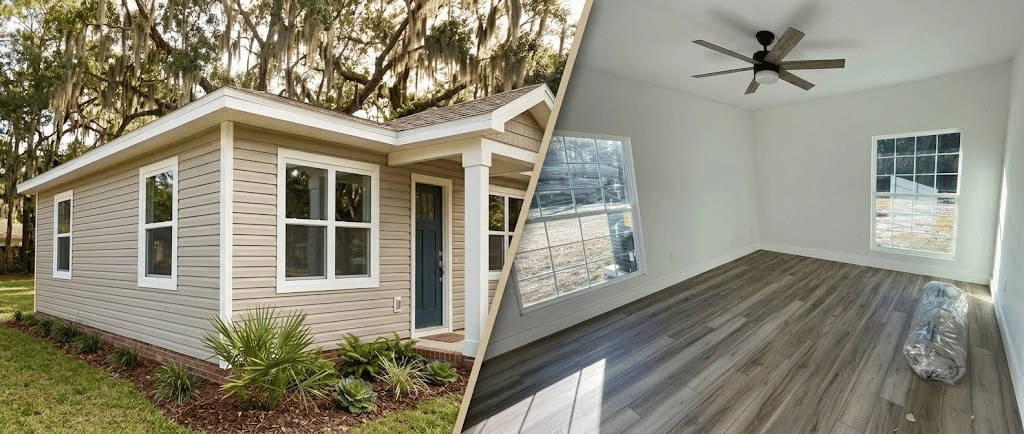
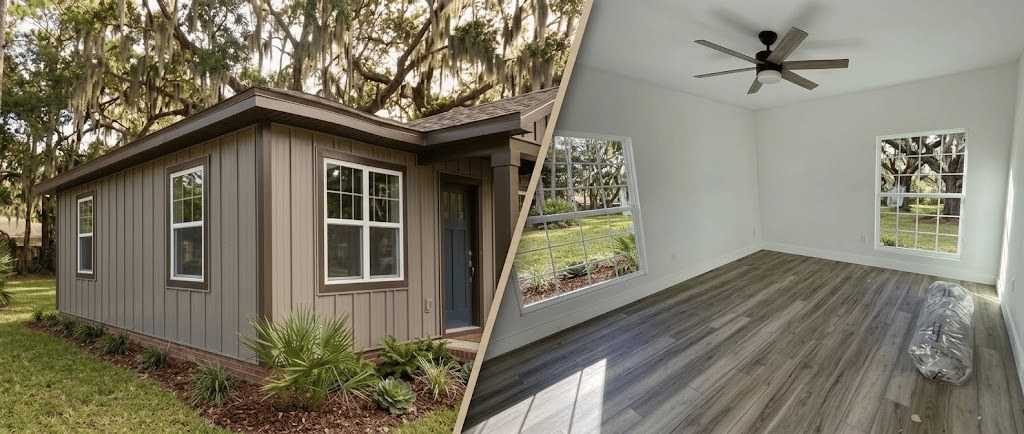
Update siding windows and flooring service imagery

diff --git a/app/services/flooring-siding-windows/page.jsx b/app/services/flooring-siding-windows/page.jsx
@@ -1,4 +1,4 @@
 import { PageFrame } from "../../components/page-frame";
 import { ServiceDetailPage } from "../../components/service-detail-page";
-export const metadata = { title: "Flooring, Siding, and Window Replacement in Lake Butler, FL", description: "Flooring, siding, and window replacement planning with finish carpentry for homeowners in Lake Butler and nearby North Florida communities.", alternates: { canonical: "/services/flooring-siding-windows" }, openGraph: { title: "Flooring, Siding, and Window Replacement in Lake Butler, FL", description: "Practical flooring, siding, and window updates for North Florida homes.", images: [{ url: "/images/north-florida-siding-windows.png", alt: "North Florida home with updated siding and windows" }] }, twitter: { card: "summary_large_image", images: ["/images/north-florida-siding-windows.png"] } };
-export default function FlooringSidingWindowsPage() { return <PageFrame><ServiceDetailPage slug="flooring-siding-windows" heroImage={{ src: "/images/north-florida-siding-windows.png", alt: "North Florida home with new horizontal siding, white-trimmed windows, and a covered entry" }} faqHeading="Flooring, siding, and window FAQs" faqIntro="The questions homeowners often ask before updating worn flooring, siding, or windows, with straightforward answers to help you take the next step." faqCtaLabel="Talk through your home update" centeredScope hideIntro hideBottomCta /></PageFrame>; }
+export const metadata = { title: "Flooring, Siding, and Window Replacement in Lake Butler, FL", description: "Flooring, siding, and window replacement planning with finish carpentry for homeowners in Lake Butler and nearby North Florida communities.", alternates: { canonical: "/services/flooring-siding-windows" }, openGraph: { title: "Flooring, Siding, and Window Replacement in Lake Butler, FL", description: "Practical flooring, siding, and window updates for North Florida homes.", images: [{ url: "/images/rpr-siding-windows-house.jpg", alt: "North Florida home with board-and-batten siding and replacement windows" }] }, twitter: { card: "summary_large_image", images: ["/images/rpr-siding-windows-house.jpg"] } };
+export default function FlooringSidingWindowsPage() { return <PageFrame><ServiceDetailPage slug="flooring-siding-windows" heroImage={{ src: "/images/rpr-siding-windows-house.jpg", alt: "North Florida home with board-and-batten siding, white replacement windows, and a covered entry" }} faqHeading="Flooring, siding, and window FAQs" faqIntro="The questions homeowners often ask before updating worn flooring, siding, or windows, with straightforward answers to help you take the next step." faqCtaLabel="Talk through your home update" centeredScope hideIntro hideBottomCta /></PageFrame>; }

diff --git a/app/page.jsx b/app/page.jsx
@@ -56,7 +56,7 @@ export default function HomePage() {
               <span className="popular-service-content"><strong>Kitchen and Bath Renovations</strong><span>Thoughtful updates for the rooms that carry the most daily use.</span><span className="popular-service-links"><Link href="/services/kitchen-remodeling">Kitchen renovations</Link><Link href="/services/bathroom-remodeling">Bathroom renovations</Link></span></span>
             </article>
             <Link className="popular-service-card popular-service-card-exterior" href="/services/flooring-siding-windows">
-              <Image className="popular-service-image-exterior" src="/images/rpr-siding-window-replacement.jpg" fill sizes="(max-width: 820px) 100vw, 25vw" alt="North Florida home with updated light siding and white replacement windows" />
+              <Image className="popular-service-image-exterior" src="/images/rpr-siding-windows-house.jpg" fill sizes="(max-width: 820px) 100vw, 25vw" alt="North Florida home with board-and-batten siding and white replacement windows" />
               <span className="popular-service-scrim" />
               <span className="popular-service-content"><strong>Siding and Window Replacement</strong><span>Practical exterior updates for existing homes.</span></span>
             </Link>
